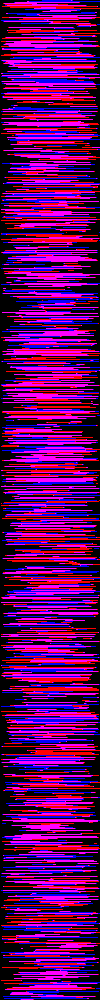
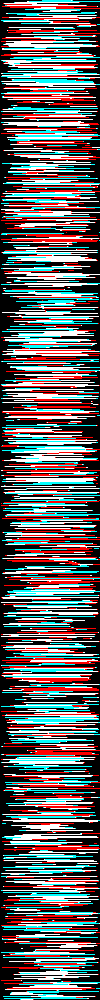
day4 viz v2

diff --git a/visualizations.py b/visualizations.py
@@ -96,14 +96,16 @@ def viz4p1(elfduties):
     viz = Map(["0"*100]*len(elfduties))
     viz.setcolour("0",(0,0,0))
     viz.setcolour("1",(255,0,0))
-    viz.setcolour("2",(0,0,255))
-    viz.setcolour("3",(255,0,255))
+    viz.setcolour("2",(0,255,255))
+    viz.setcolour("3",(255,255,255))
     for y, elves in enumerate(elfduties):
         e1, e2 = elves
         for x in e1:
             viz.set((x,y),"1")
         for x in e2:
             viz.set((x,y),viz.get((x,y))+2)
+    i2 = viz.img.resize((100,100))
+    i2.save(Path(__file__).parent / 'output' / 'day4ax.png')
     viz.img.save(Path(__file__).parent / 'output' / 'day4a.png')
 
 # def viz3a(counters):

diff --git a/README.md b/README.md
@@ -11,7 +11,7 @@ Day 2 </br /> </br /> Rock Paper Scissors </br /> [🌐](https://adventofcode.co
 &nbsp;                                                                              | 1ms | [![](./output/day2b.gif)](./output/day2b.gif)  | XYZ = lose draw win
 Day 3 </br /> </br /> Rucksack Reorganization </br />[🌐](https://adventofcode.com/2022/day/3)[💾](./day3.py) | 0ms | [![](./output/day3a.png)](./output/day3a.png) | find the set intersection
 &nbsp;                                                                              |1ms | [![](./output/day3b.png)](./output/day3b.png)  | intersections pt 2
-Day 4</br /></br /> Camp Cleanup </br />[🌐](https://adventofcode.com/2022/day/4)[💾](./day4.py) | 3ms | [![](./output/day4a.png)](./output/day4a.png) | find the subsets
+Day 4</br /></br /> Camp Cleanup </br />[🌐](https://adventofcode.com/2022/day/4)[💾](./day4.py) | 3ms | [![](./output/day4ax.png)](./output/day4a.png) | find the subsets
 &nbsp;                                                                              | 3ms | [![](./output/day4b.png)](./output/day4b.png)  | and back to intersections
 Day 5</br /></br /></br />[🌐](https://adventofcode.com/2022/day/5)[💾](./day5.py) | <!-- 0.0s --> | [![](./output/day5a.png)](./output/day5a.png) | 
 &nbsp;                                                                              | <!-- 0.0s --> | [![](./output/day5b.png)](./output/day5b.png)  | 
